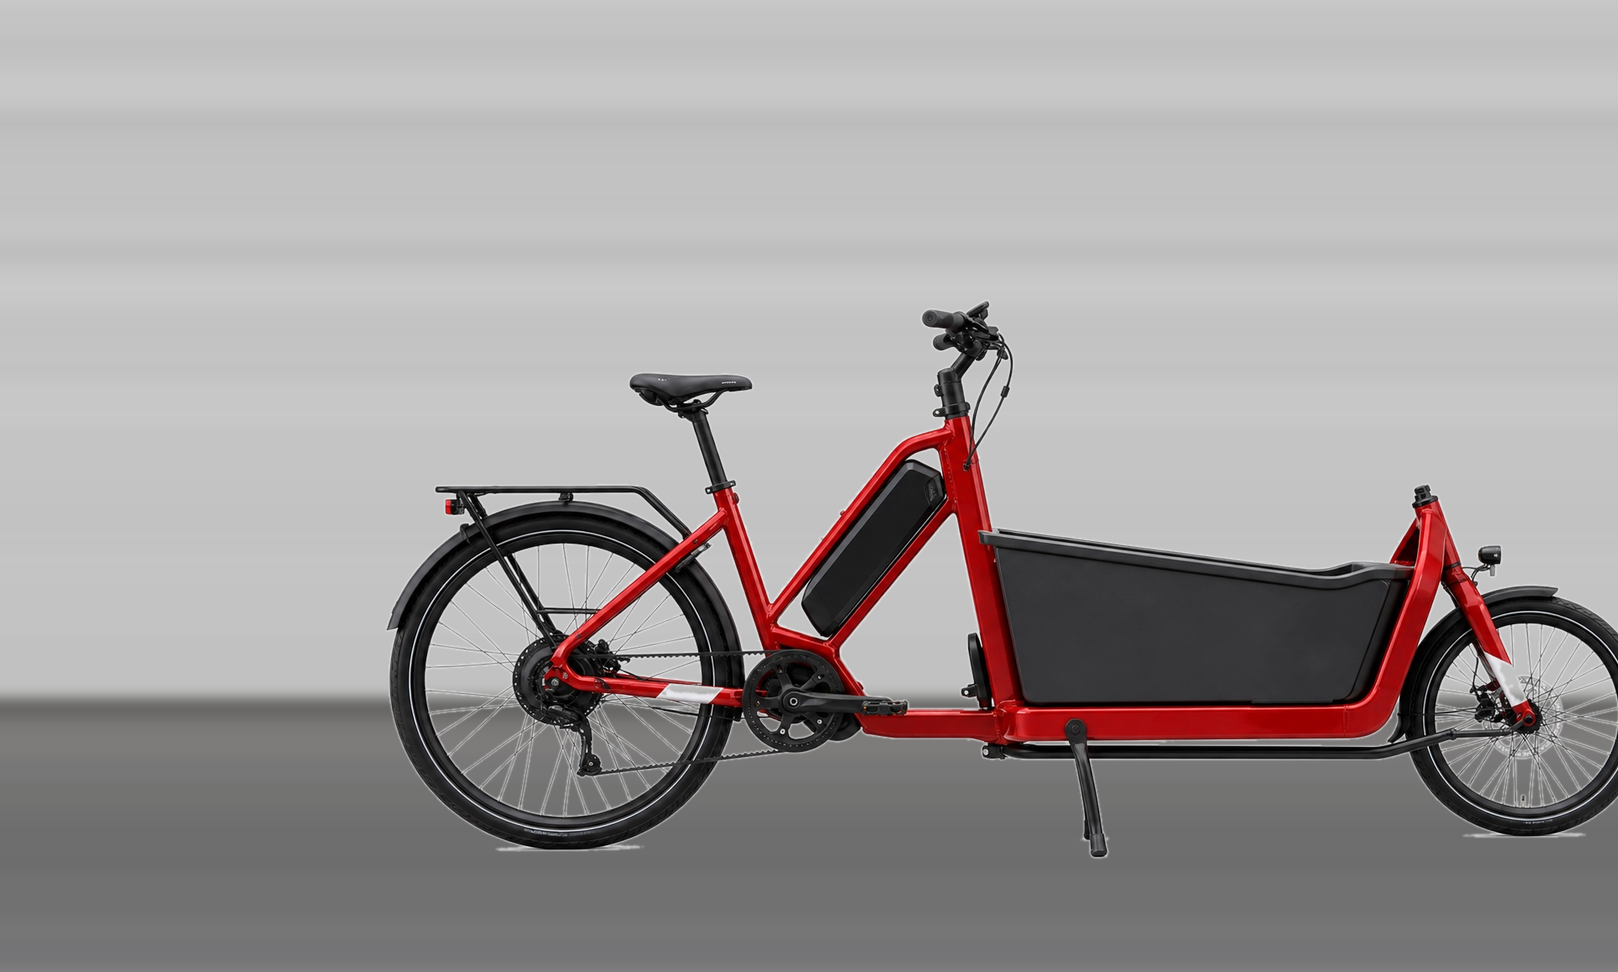
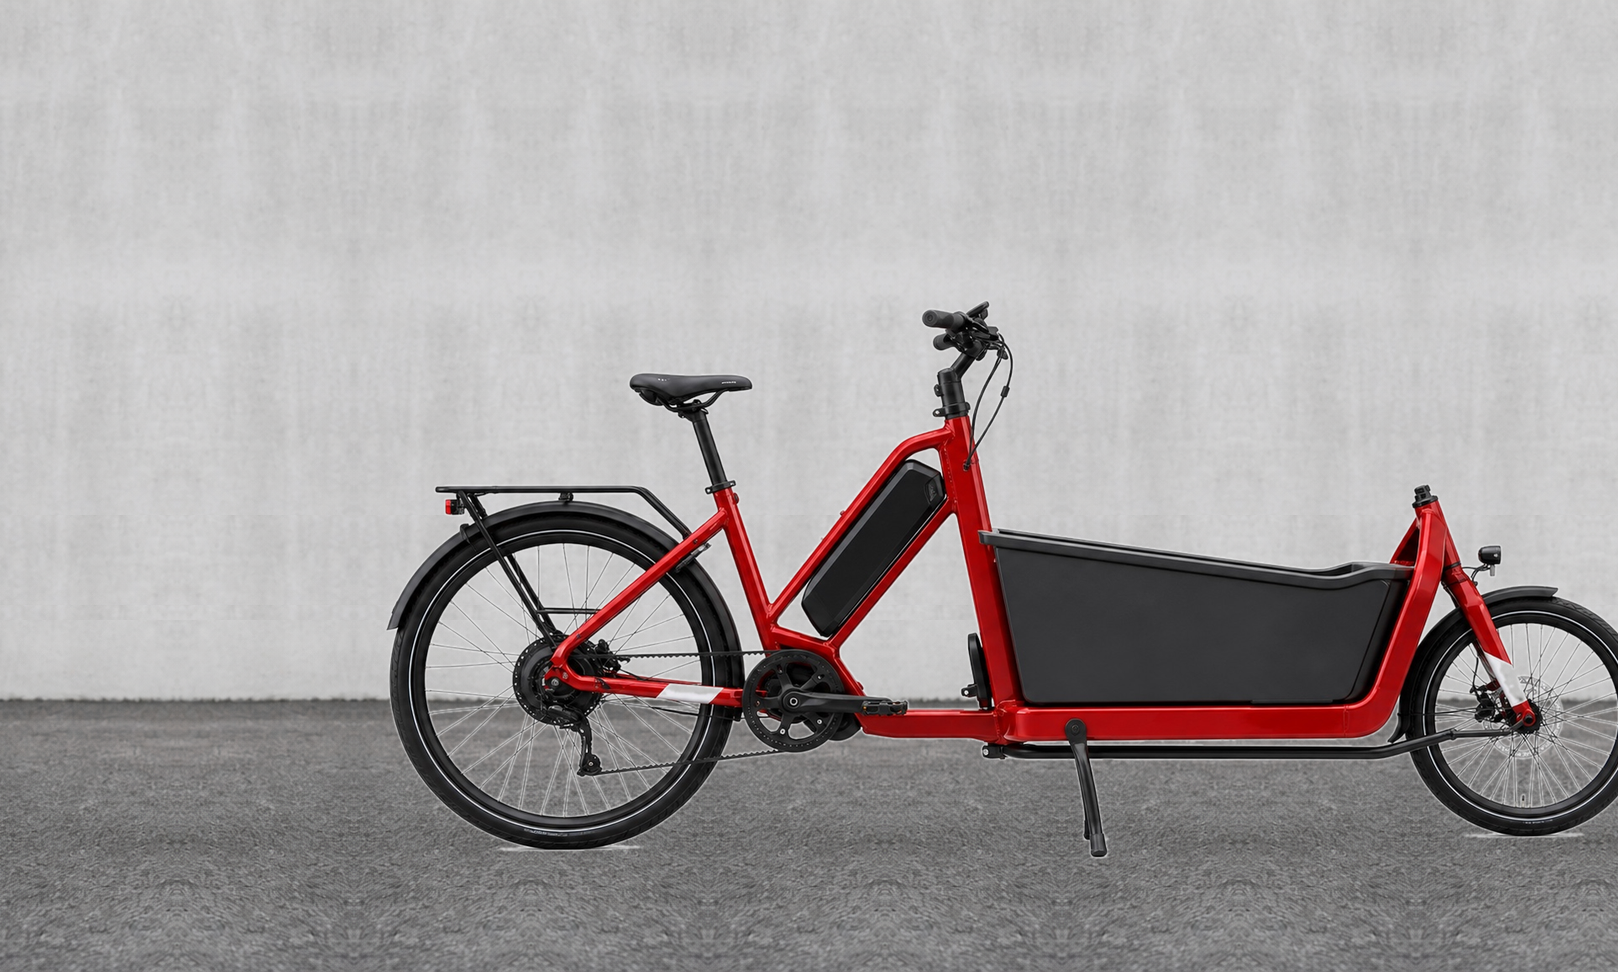
fix(web): Buehnenbild des Loaders auf Beton, Scrollpfeil sichtbar
Das Bild fuer den E-Cargo Loader hatte einen glatten Grauverlauf als
Hintergrund - neben zwei Aufnahmen vor einer Betonwand sah das aus wie
aus einem anderen Projekt. Der Verlauf entstand, weil ich den Hintergrund
aus einem gemittelten Spaltenstreifen gebaut hatte: die Struktur ging
dabei verloren.

Jetzt wird ein radfreier Streifen der vorhandenen Aufnahme (x 62..239)
abwechselnd gespiegelt ueber die volle Breite gekachelt. Beton und
Asphalt bleiben erhalten, an den Stossstellen entsteht keine Kante.

Dabei tauchte ein Poller vor der Wand dreimal auf - beim Kacheln
wiederholt sich alles, was im Streifen steht. Er wird vorher mit
Wandstruktur von direkt darueber ueberdeckt.

Der Scrollpfeil war 13 Punkte gross bei 34 Prozent Deckkraft und auf
hellem Beton praktisch unsichtbar. Ein Hinweis, den man suchen muss, ist
keiner. Jetzt zwei versetzte Winkel in Navy, eine Haarlinie darueber als
Anker und ein heller Schein dahinter, damit er auch auf einem dunklen
Bildteil steht. Bei abgeschalteter Animation stehen die Winkel still.

Alle 16 Abnahmepruefungen bestanden.

diff --git a/src/style.css b/src/style.css
@@ -587,32 +587,53 @@ img { max-width: 100%; }
 
 /* Statt des Satzes "Scrollen, um das Netz zu entdecken" ein Pfeil, der
    nach unten tippt. Er sagt dasselbe in weniger Zeit und in jeder
-   Sprache. Bei abgeschalteter Animation steht er still - sichtbar
-   bleibt er trotzdem. */
+   Sprache.
+
+   Die erste Fassung war 13 Punkte gross bei 34 Prozent Deckkraft und
+   auf dem hellen Beton praktisch unsichtbar. Ein Hinweis, den man
+   suchen muss, ist keiner. Jetzt: zwei versetzte Winkel in Navy, eine
+   Haarlinie darueber als Anker, und ein heller Schein dahinter, damit
+   er auch auf einem dunklen Bildteil steht. */
 .scroll-hint {
   position: absolute;
-  left: 50%; bottom: 30px;
-  width: 30px; height: 46px;
+  left: 50%; bottom: 26px;
+  width: 26px; height: 78px;
   transform: translateX(-50%);
   opacity: var(--ebike-claim-opacity);
   pointer-events: none;
 }
-.scroll-hint span {
+/* Die Haarlinie: der Weg, den der Blick nehmen soll. */
+.scroll-hint::before {
+  content: "";
   position: absolute;
   left: 50%; top: 0;
-  width: 13px; height: 13px;
-  margin-left: -7px;
-  border-right: 2px solid var(--navy);
-  border-bottom: 2px solid var(--navy);
-  opacity: .34;
-  transform: rotate(45deg);
-  animation: tippen 1.9s cubic-bezier(.4, 0, .2, 1) infinite;
+  width: 1px; height: 30px;
+  margin-left: -.5px;
+  background: linear-gradient(180deg, transparent, rgba(6, 24, 65, .38));
+}
+.scroll-hint span,
+.scroll-hint span::after {
+  position: absolute;
+  left: 50%; top: 34px;
+  width: 15px; height: 15px;
+  margin-left: -8px;
+  border-right: 2.5px solid var(--navy);
+  border-bottom: 2.5px solid var(--navy);
+  border-radius: 2px;
+  filter: drop-shadow(0 1px 6px rgba(255, 255, 255, .95));
+  animation: tippen 2s cubic-bezier(.42, 0, .3, 1) infinite;
+}
+.scroll-hint span::after {
+  content: "";
+  left: 0; top: 0; margin-left: 0;
+  animation-delay: .28s;
 }
 @keyframes tippen {
-  0%   { transform: translateY(0) rotate(45deg);    opacity: 0; }
-  22%  { opacity: .5; }
-  60%  { transform: translateY(20px) rotate(45deg); opacity: .16; }
-  100% { transform: translateY(26px) rotate(45deg); opacity: 0; }
+  0%   { transform: translateY(-6px) rotate(45deg); opacity: 0; }
+  30%  { opacity: .78; }
+  70%  { opacity: .3; }
+  100% { transform: translateY(20px) rotate(45deg); opacity: 0; }
+}
 }
 
 .progress-rail {
@@ -1687,7 +1708,7 @@ footer a:hover { color: #fff; text-decoration: underline; }
   .scroll-story { height: 100vh; min-height: 720px; }
   .photo-ebike { opacity: 1; transform: scale(1.03); }
   .photo-city, .photo-morph, .claim-city, .claim-cargo, .transition-cover, .final-card { display: none; }
-  .scroll-hint span { animation: none; opacity: .3; }
+  .scroll-hint span, .scroll-hint span::after { animation: none; opacity: .55; }
   .claim-ebike { opacity: 1; transform: none; }
   .choice-panel { opacity: 1; transform: none; }
   .progress-rail, .scroll-hint { display: none; }

diff --git a/src/rechtliches.html b/src/rechtliches.html
@@ -6,7 +6,7 @@
     <meta name="theme-color" content="#061841">
     <meta name="robots" content="noindex">
     <title>Rechtliches - VeloCity Würzburg</title>
-    <link rel="stylesheet" href="style.css?v=5dd020f3">
+    <link rel="stylesheet" href="style.css?v=35eb62f0">
 </head>
 <body class="seite-recht">
 

diff --git a/src/index.html b/src/index.html
@@ -12,7 +12,7 @@
     <link rel="stylesheet" type="text/css" href="https://cdn.jsdelivr.net/npm/toastify-js/src/toastify.min.css">
 
     <!-- App Styles -->
-    <link rel="stylesheet" href="style.css?v=5dd020f3">
+    <link rel="stylesheet" href="style.css?v=35eb62f0">
 </head>
 <body>
 
